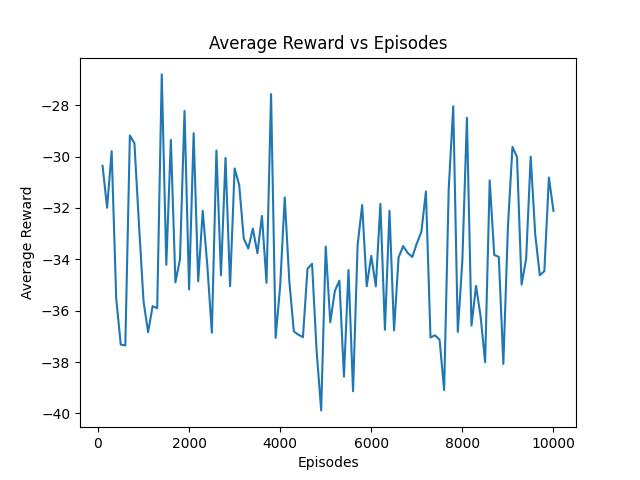
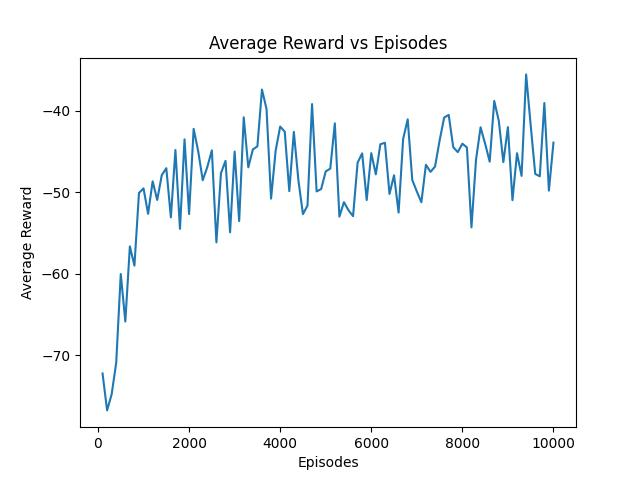
tests

diff --git a/core/algorithms/QLeaning/TrainSimple.py b/core/algorithms/QLeaning/TrainSimple.py
@@ -1,24 +1,24 @@
 from pettingzoo.mpe import simple_v2
 from QLearningBox import QLearningBox
+from test import test
 
 # env = simple_v2.env(max_cycles=10, continuous_actions=False)
 # env.reset()
 
-parallel_env = simple_v2.parallel_env(max_cycles=25, continuous_actions=False)
+parallel_env = simple_v2.parallel_env(max_cycles=30, continuous_actions=False)
 observations = parallel_env.reset()
-
 
 for agent in parallel_env.agents:
     parallel_env.reset()
     qlearn = QLearningBox(
         env=parallel_env,
         agent=agent,
-        alpha=0.1,
-        gamma=0.6,
+        alpha=0.2,
+        gamma=0.4,
         epsilon=0.7,
         epsilon_min=0.05,
         epsilon_dec=0.99,
-        episodes=100000,
+        episodes=10000,
     )
     train_dir = "core/algorithms/QLeaning/"
     q_table = qlearn.train(
@@ -26,6 +26,8 @@ for agent in parallel_env.agents:
         plotFile=f"{train_dir}/qtable_{agent}",
     )
 
+    mean_reward = test(q_table, agent)
+    print(f"Final reward:{mean_reward}")
 
 #
 # teste:

diff --git a/core/algorithms/QLeaning/test.py b/core/algorithms/QLeaning/test.py
@@ -1,0 +1,36 @@
+from pettingzoo.mpe import simple_v2
+import numpy as np
+
+
+def get_state(state):
+    range = 50
+    state_adj = state * np.array([10, 10, 10, 10])
+    state_adj = np.round(state_adj, 0).astype(int)
+    x, y, vx, vy = state_adj + np.array(
+        [range, range, range, range]
+    )
+    return x, y, vx, vy
+
+
+def test(q_table, agent):
+    env = simple_v2.parallel_env(max_cycles=30, continuous_actions=False)
+
+    rewards = 0
+
+    for _ in range(0, 1000):
+
+        state = env.reset()[agent]
+        state = get_state(state)
+        done = False
+
+        while not done:
+            action = np.argmax(q_table[state])
+            state, reward, _, done, _ = env.step({agent: action})
+
+            state = state[agent]
+            state = get_state(state)
+            reward = reward[agent]
+            done = done[agent]
+
+        rewards += reward
+    return rewards / 1000

diff --git a/core/algorithms/QLeaning/QLearningBox.py b/core/algorithms/QLeaning/QLearningBox.py
@@ -139,6 +139,7 @@ class QLearningBox:
         # TODO Q eh um vetor tridimensional. savetxt nao trabalha com arrays com mais de 2
         # dimensoes. Eh necessario fazer ajustes para armazenar a Q-table neste caso.
         # savetxt(filename, self.Q, delimiter=',')
+
         if plotFile is not None:
             self.plotactions(plotFile, ave_reward_list)
         return self.Q

diff --git a/core/algorithms/QLeaning/Simple.py b/core/algorithms/QLeaning/Simple.py
@@ -1,7 +1,7 @@
 from pettingzoo.mpe import simple_v2
 import sys
 
-env = simple_v2.env(max_cycles=25, continuous_actions=False, render_mode='human')
+env = simple_v2.env(max_cycles=50, continuous_actions=False, render_mode='human')
 
 def policy(observation, agent): 
     print(round(observation[0]*100))
